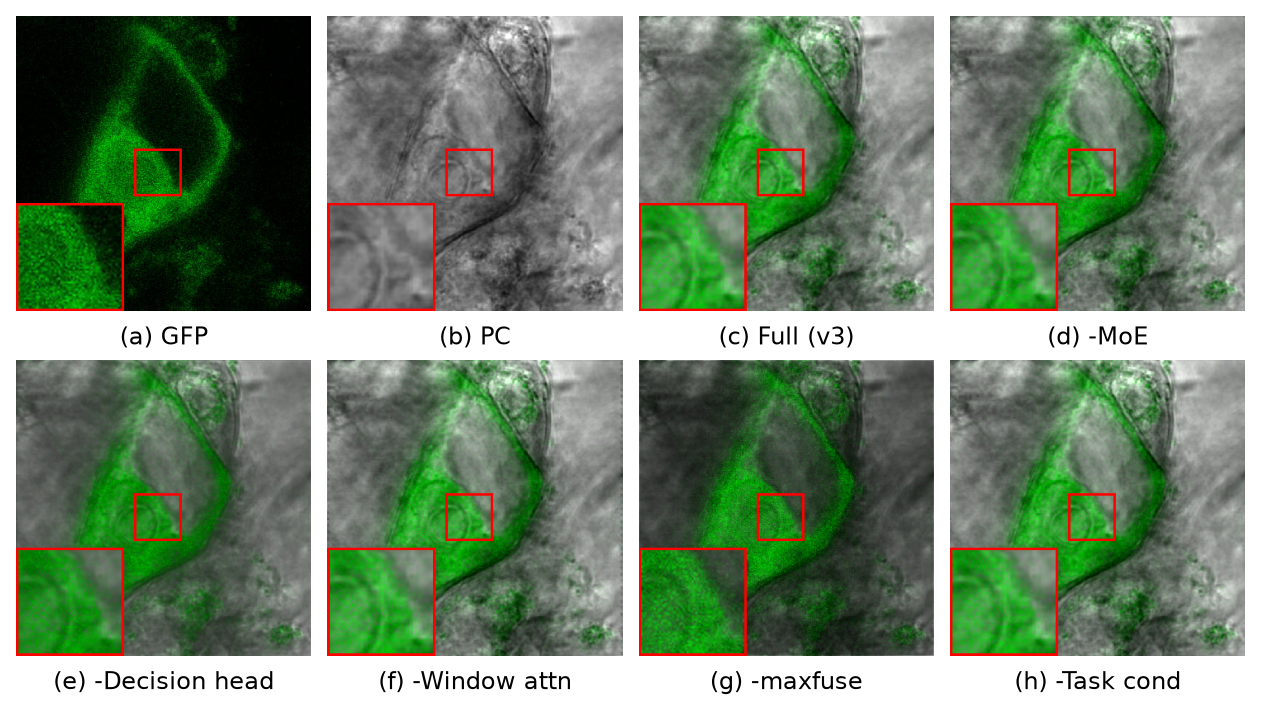
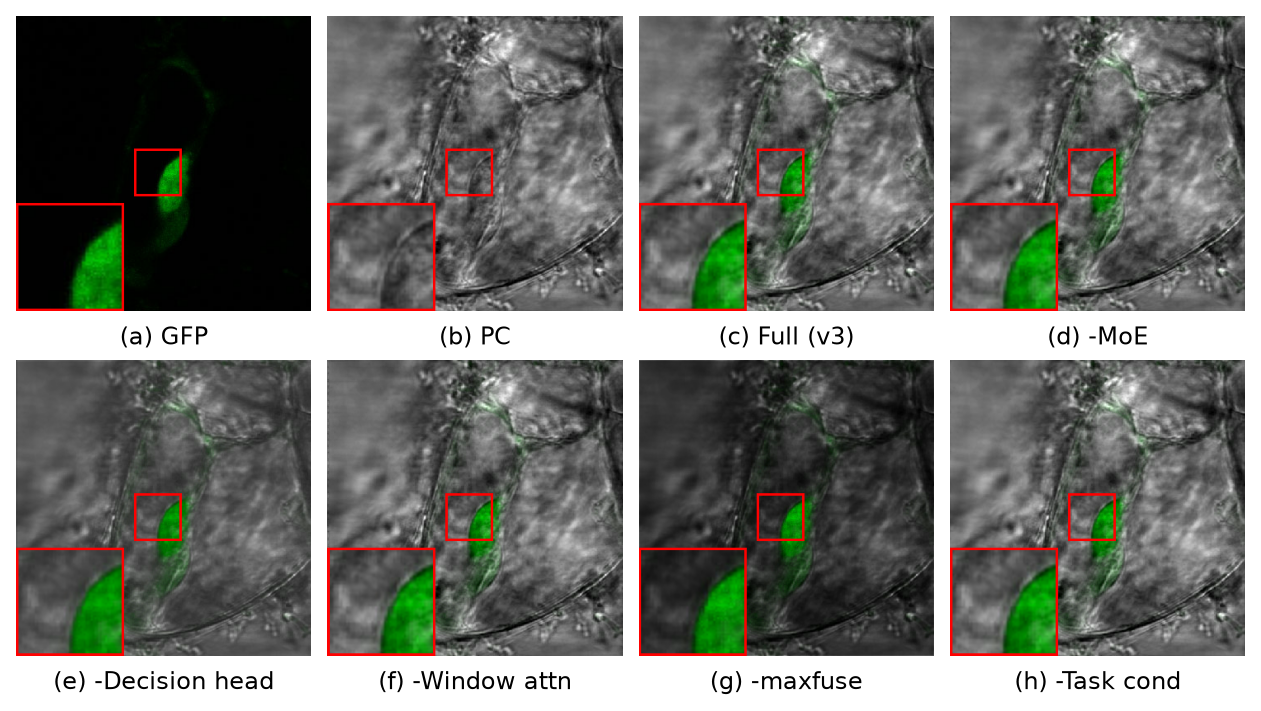
ablation: distinct qualitative samples from comparison + add PET-MRI figure (split medical pet/spect); document fused_final variant scope

diff --git a/script/make_ablation_figure.py b/script/make_ablation_figure.py
@@ -5,11 +5,15 @@ Columns: source A, source B, Full(v3), -MoE, -DecisionHead, -WindowAttn, -maxfus
 -TaskCond  (2x4 grid). Same red-box + bottom-left zoom-inset style, (a)-(h) captions.
 IR-VIS shown in color (visible-chroma recombination); medical/gfp_pc from fused_final.
 Only INNOVATION-point ablations here (NOT hyperparameter sweeps).
+Medical is split by modality via --subtag pet|spect (sets srcA label + output
+subfolder+name), matching make_qualitative_figure.py; samples are chosen DIFFERENT
+from the §4.2 comparison figures to avoid reusing the same images.
 
 Usage:
-  python make_ablation_figure.py --task irvis  --sample 00778N     --box 0.40 0.45 0.16 0.16
-  python make_ablation_figure.py --task gfp_pc --sample 05-A02     --box 0.40 0.45 0.16 0.16
-  python make_ablation_figure.py --task medical --sample spect_18017 --box 0.38 0.40 0.18 0.18
+  python make_ablation_figure.py --task irvis  --sample 01506D     --box 0.40 0.45 0.16 0.16
+  python make_ablation_figure.py --task gfp_pc --sample 05-B06     --box 0.40 0.45 0.16 0.16
+  python make_ablation_figure.py --task medical --subtag spect --sample spect_4010 --box 0.38 0.40 0.18 0.18
+  python make_ablation_figure.py --task medical --subtag pet   --sample pet_25015  --box 0.38 0.40 0.18 0.18
 """
 import os, string, argparse
 import numpy as np
@@ -72,6 +76,7 @@ def sanitize(s):
 def main():
     ap = argparse.ArgumentParser()
     ap.add_argument("--task", required=True, choices=["irvis", "medical", "gfp_pc"])
+    ap.add_argument("--subtag", default="", help="medical: pet|spect (subfolder + srcA label)")
     ap.add_argument("--sample", required=True)
     ap.add_argument("--box", nargs=4, type=float, default=[0.40, 0.45, 0.16, 0.16])
     ap.add_argument("--zoom", type=float, default=2.2)
@@ -82,13 +87,15 @@ def main():
     args = ap.parse_args()
 
     stem = args.sample[:-4] if args.sample.endswith(".png") else args.sample
-    fn = stem + ".png"; task = args.task
-    out_base = os.path.join(REPO, "Materials", "ablation", task)
+    fn = stem + ".png"; task = args.task; sub = args.subtag
+    out_base = os.path.join(REPO, "Materials", "ablation", task, sub) if sub \
+        else os.path.join(REPO, "Materials", "ablation", task)
     ind_dir = os.path.join(out_base, "individual"); os.makedirs(ind_dir, exist_ok=True)
 
     la, lb = SRC_LABELS[task]
     if task == "medical":
-        la = "SPECT" if stem.startswith("spect") else "PET"
+        la = sub.upper() if sub in ("pet", "spect") else \
+            ("SPECT" if stem.startswith("spect") else "PET")
     a_path = os.path.join(BENCH, "inputs", task, "colorA", fn)
     if not os.path.exists(a_path):
         a_path = os.path.join(BENCH, "inputs", task, "A", fn)
@@ -125,9 +132,10 @@ def main():
         ax.text(0.5, -0.05, f"({letters[i]}) {label}", transform=ax.transAxes,
                 ha="center", va="top", fontsize=11, color="black")
     fig.tight_layout(h_pad=1.6, w_pad=0.6)
-    out_png = os.path.join(out_base, f"fig_{task}_ablation.png")
+    suffix = f"_{sub}" if sub else ""
+    out_png = os.path.join(out_base, f"fig_{task}{suffix}_ablation.png")
     fig.savefig(out_png, dpi=args.dpi, bbox_inches="tight"); plt.close(fig)
-    print(f"[{task}] {n} panels {nrows}x{ncols} -> {out_png}")
+    print(f"[{task}{('/'+sub) if sub else ''}] {n} panels {nrows}x{ncols} -> {out_png}")
 
 
 if __name__ == "__main__":

diff --git a/EXP-ABLATION-03-variants-and-qualitative-audit.md b/EXP-ABLATION-03-variants-and-qualitative-audit.md
@@ -1,0 +1,74 @@
+# EXP-ABLATION-03：消融变体清点 + 定性图去重与 PET–MRI 补图（审计记录）
+
+- 日期：2026-07-07
+- 背景：`content/section-ablation.md`（§4.3 消融实验）初版定稿后，核对时发现三个问题：
+  1. `fusion_bench/fused_final/` 下的 `ab*` 变体文件夹**多于**表 4-10~4-12 里的 5 个，`abNoMoE_direct / abDirect_orig / abD3 / abDeep` 等是干嘛的、为什么不在表里；
+  2. §4.3.2 主观分析选的样本**和 §4.2 对比实验完全一样**（00778N / spect_18017 / 05-A02）；
+  3. 医学消融只画了 **SPECT–MRI**，没有 **PET–MRI**（而 §4.2 是 PET、SPECT 各一张）。
+- 本文档回答这三个问题，并记录已做的修正。
+
+---
+
+## 1. `fused_final/ab*` 变体清点（回答问题①）
+
+`ab*` 系列共 11 个文件夹，分三类；**只有第一类（5 个单消融 + Full 基线）进 §4.3 主表**，其余两类各有归属，不进主表。
+
+变体来自两个训练脚本 `run_sweep.sh` / `run_finish.sh`：每个变体都在 v3 基线（`W96L` = oc96-depth4 MoE，4.11M）之上**只改被测的那一项**，其余超参全同、同样重训 20 epoch。
+
+| 文件夹 | 训练日志 | 相对 v3 改动（train_moe.py 参数） | 类别 | 进 §4.3 表？ | 归属/记录处 |
+|---|---|---|---|---|---|
+| `W96L` | logs_W_96d4L | 无（完整 v3 基线） | 基线 | 是（完整 v3） | §4.3 表4-10~12 |
+| `abNoMoE` | logs_ab_noMoE | `--n-routed 0` | 单消融 I1（−MoE） | 是 | §4.3 |
+| `abDirect` | logs_ab_direct | `--fusion-head direct` | 单消融 I2（−决策图头） | 是 | §4.3 |
+| `abWs1` | logs_ab_ws1 | `--window-size 1` | 单消融 I3（−窗口注意力） | 是 | §4.3 |
+| `abOrig` | logs_ab_orig | `--loss-mode orig` | 单消融 I4（−maxfuse） | 是 | §4.3 |
+| `abNoTC` | logs_ab_notaskcond | `--no-task-cond` | 单消融 I5（−任务条件路由） | 是 | §4.3 |
+| `abNoMoE_direct` | logs_ab_noMoE_direct | `--n-routed 0 --fusion-head direct` | **双消融** I1+I2 | 否 | EXP-ABLATION-PARAM-v3 §2.1 |
+| `abDirect_orig` | logs_ab_direct_orig | `--fusion-head direct --loss-mode orig` | **双消融** I2+I4 | 否 | EXP-ABLATION-PARAM-v3 §2.1 |
+| `abWs1_orig` | logs_ab_ws1_orig | `--window-size 1 --loss-mode orig` | **双消融** I3+I4 | 否 | EXP-ABLATION-PARAM-v3 §2.1 |
+| `abD3` | logs_ab_d3 | `--depth 3`（3.10M） | **超参对比点** depth=3 | 否 | EXP-ABLATION-PARAM-v3 §3（骨干深度）·§4.4 |
+| `abDeep` | logs_ab_deepseek | 路由改 deepseek（无辅助损失，bias 负载均衡） | **超参对比点** routing=deepseek | 否 | EXP-ABLATION-PARAM-v3 §3（路由方式）·§4.4 |
+
+### 为什么不进 §4.3 主表
+
+- **§4.3 主表按设计只做「单创新点」消融**：每次移除一个创新点、其余全同，这样才能**干净地隔离每个创新点的独立贡献**，读者一眼看清"去掉 I2 掉多少、去掉 I4 掉多少"。这是消融实验的标准做法。
+- **双消融（3 组）属于「创新点交互/互补性」分析**：一次去掉两个，用来说明创新点之间**互补、非冗余**（去两个比去一个掉得更多，说明增益叠加、彼此不可替代）。这类结论放在内部记录 `EXP-ABLATION-PARAM-v3.md` §2.1，作为主表的补充证据；正文主表不混入，避免"移除项组合"把单因子结论搅乱。
+- **`abD3` / `abDeep` 不是"创新点消融"，而是"超参/架构取值对比"**：`abD3` 是 depth=3 这个**取值**（对照 depth=2/4/5），`abDeep` 是 routing=deepseek 这种**路由方式**（对照 softmax）。它们回答的是"参数取多少最好 / 哪种路由更好"，属于 §4.4 超参数分析，与"某个创新点有没有用"是两码事。§4.3 开头已声明"创新点消融与超参取值分析二者不混"。
+- 补充：这两个是**探索期**（7-02）先跑的，正式超参扫（`run_sweep.sh`，7-04）里 depth 只补了 hpD2/hpD5、routing 复用 abDeep，所以 depth=3 直接复用了 `abD3`——它们都已 benchmark（`reports/*/abD3__means.csv`、`abDeep__means.csv`），数据进了 §3 的深度表与路由表，不是"废弃跑"。
+
+> 一句话结论：`fused_final/ab*` 里没有多余/无用的文件夹——5 个进主表（单消融），3 个是双消融（互补性分析，内部文档），2 个是超参对比点（depth=3 / deepseek，§4.4）。
+
+（另：`fused_final/` 里还有大量**非 `ab` 前缀**的文件夹，如 `hp*` 是 §4.4 的 8 组超参扫描、`D*/W*/TG*/IR*` 等是更早期的探索批次与 9 个 SOTA 对比方法目录，均不属于 §4.3 消融。）
+
+---
+
+## 2. 定性样本去重（回答问题②）
+
+**问题**：§4.3.2 消融定性图原本用的样本与 §4.2 对比实验完全相同，读者会在两节看到同一张图。
+
+**修正**：§4.3.2 四张图**全部另选**与 §4.2 不同的样本。选样沿用 `script/select_samples.py` 的口径——挑本文 5 项指标（MI/SSIM/Qabf/VIF↑、Nabf↓）**优于全部 9 个对比方法**的代表图（保证"完整 v3"确实是强代表，这样移除创新点后的退化才看得清），取其中**排名靠前但未被 §4.2 占用**的那一张。
+
+| 图 | §4.2 对比用样本 | §4.3 消融用样本（改后） | 选取依据 |
+|---|---|---|---|
+| IR-VIS | 00778N | **01506D** | 全指标全胜候选 #1（§4.2 未用） |
+| 医学 PET–MRI | pet_25027 | **pet_25015** | PET 无 5/5 全胜图，取 4/5（仅 Nabf 略输）最优候选，§4.2 未用 |
+| 医学 SPECT–MRI | spect_18017 | **spect_4010** | 全指标全胜候选 #2（#1 为 §4.2 用的 spect_18017） |
+| 显微 GFP–PC | 05-A02 | **05-B06** | 全指标全胜候选 #2（#1 为 §4.2 用的 05-A02） |
+
+---
+
+## 3. 医学 PET–MRI 消融补图（回答问题③）
+
+**问题**：§4.2 医学分 PET–MRI、SPECT–MRI 各一张；§4.3.2 却只画了 SPECT–MRI，缺 PET–MRI。
+
+**原因**：初版 `make_ablation_figure.py` 对 medical 只生成单张 `fig_medical_ablation.png`（当时只跑了 spect_18017 一个样本），没有像对比脚本那样按模态分图；并非数据缺失——**6 个单消融变体文件夹里 PET 融合结果齐全**（`W96L/abNoMoE/abDirect/abWs1/abOrig/abNoTC` 各有 24 张 PET + 24 张 SPECT）。
+
+**修正**：给 `make_ablation_figure.py` 加了 `--subtag pet|spect`（与 `make_qualitative_figure.py` 一致）：medical 按模态分别输出到 `Materials/ablation/medical/{pet,spect}/fig_medical_{pet,spect}_ablation.png`，源 A 标签自动为 PET / SPECT。据此**补出 PET–MRI 消融图**（pet_25015），与 SPECT–MRI（spect_4010）并列，和 §4.2 的呈现方式一致。
+
+---
+
+## 4. 本次改动清单
+- `script/make_ablation_figure.py`：新增 `--subtag`，medical 按 PET/SPECT 分图。
+- `Materials/ablation/`：重生成 4 张图——`irvis/fig_irvis_ablation.png`(01506D)、`medical/pet/fig_medical_pet_ablation.png`(pet_25015，新增)、`medical/spect/fig_medical_spect_ablation.png`(spect_4010)、`gfp_pc/fig_gfp_pc_ablation.png`(05-B06)；删除旧的 `medical/fig_medical_ablation.png` 及被替换样本的 individual 面板。
+- `content/section-ablation.md`：§4.3.2 改为 4 图（新增 PET–MRI）、样本改为去重后的新样本、图号 4-5~4-8；表 4-9 下新增「消融范围说明」直接解释 fused_final 里多出来的变体各是什么、为什么不进主表。
+- `Materials/README.md`：ablation 目录树补 pet/spect 子目录，重生成命令改为新样本 + `--subtag`，并注明样本与 §4.2 去重、双消融/超参见 EXP-ABLATION-PARAM-v3。

diff --git a/content/section-ablation.md b/content/section-ablation.md
@@ -14,6 +14,8 @@
 | I4 | **maxfuse 任务自适应损失** | 朝逐像素 max 对齐，保强结构/对比 | 改回 GFP 标定的对称损失（−maxfuse） |
 | I5 | **任务条件路由** | 路由注入任务嵌入，按任务特化专家 | 路由不注入任务嵌入（−Task cond） |
 
+> **消融范围说明。** 本节主表只做**单创新点**消融（每次移除一个），以清晰隔离各创新点的独立贡献。此外还补做了 3 组**双创新点联合消融**（−MoE−决策图头、−决策图头−maxfuse、−窗口−maxfuse），用于验证创新点之间互补、非冗余（去掉两个比去掉一个掉得更多）；这部分与「路由方式 softmax/deepseek、骨干深度」等**架构/超参取值对比**同属交互与超参分析，收录于内部记录 `EXP-ABLATION-PARAM-v3.md` 及 §4.4，不并入本节主表。因此 `fusion_bench/fused_final/` 下除本表 5 个变体（`abNoMoE / abDirect / abWs1 / abOrig / abNoTC`）外，还会看到 `abNoMoE_direct / abDirect_orig / abWs1_orig`（双消融）以及 `abD3 / abDeep`（depth=3、deepseek 路由的超参对比点）等文件夹，均非本节主表内容。
+
 ## 4.3.1　客观分析
 
 三个模态上完整模型与各消融变体的 5 项指标结果如表 4-10 至表 4-12 所示（↑ 越大越好，Nabf ↓ 越小越好）。
@@ -67,23 +69,27 @@
 
 ## 4.3.2　主观分析
 
-三个模态上完整模型与各消融变体的定性对比如图 4-5 至图 4-7 所示（2×4 排布，每个面板红框 + 左下角局部放大；彩色显示同 §4.2）。
+四个模态/子模态（医学按 PET–MRI 与 SPECT–MRI 分开，与 §4.2 保持一致）上完整模型与各消融变体的定性对比如图 4-5 至图 4-8 所示（2×4 排布，每个面板红框 + 左下角局部放大；彩色显示同 §4.2）。为避免与 §4.2 对比实验重复，本节各图**另选与 §4.2 不同的样本**（均取本文全指标最优/近最优的代表图）。
 
-**图 4-5　IR-VIS 创新点消融定性对比（样本 00778N）**
+**图 4-5　IR-VIS 创新点消融定性对比（样本 01506D）**
 
 ![IR-VIS 消融定性对比](../Materials/ablation/irvis/fig_irvis_ablation.png)
 
-**图 4-6　医学 SPECT–MRI 创新点消融定性对比（样本 spect_18017）**
+**图 4-6　医学 PET–MRI 创新点消融定性对比（样本 pet_25015）**
 
-![医学消融定性对比](../Materials/ablation/medical/fig_medical_ablation.png)
+![医学 PET–MRI 消融定性对比](../Materials/ablation/medical/pet/fig_medical_pet_ablation.png)
 
-**图 4-7　显微 GFP–PC 创新点消融定性对比（样本 05-A02）**
+**图 4-7　医学 SPECT–MRI 创新点消融定性对比（样本 spect_4010）**
+
+![医学 SPECT–MRI 消融定性对比](../Materials/ablation/medical/spect/fig_medical_spect_ablation.png)
+
+**图 4-8　显微 GFP–PC 创新点消融定性对比（样本 05-B06）**
 
 ![GFP–PC 消融定性对比](../Materials/ablation/gfp_pc/fig_gfp_pc_ablation.png)
 
 **主观分析（与客观结果一致）。**
 
-- **完整 v3（c）**：功能信息（红外热目标 / SPECT 代谢色 / GFP 荧光）与结构细节保留均衡、对比度适中、边缘干净。
+- **完整 v3（c）**：功能信息（红外热目标 / PET·SPECT 代谢色 / GFP 荧光）与结构细节保留均衡、对比度适中、边缘干净。
 - **−Decision head（e）**：整体对比度下降、发暗，功能信息被弱化（荧光/伪彩变淡），结构源过度主导，与 MI/SSIM 的塌陷一致。
 - **−maxfuse（g）**：最明显的退化——呈颗粒噪声与过饱和的弥散色块，医学图中 MRI 结构细节被色块淹没、GFP 图荧光变噪，与其 MI/Qabf 的大幅下降对应。
 - **−Window attn（f）**：IR-VIS 场景出现斑块与伪影（Nabf 升高），细节不如完整模型干净。

diff --git a/Materials/README.md b/Materials/README.md
@@ -17,7 +17,9 @@ Materials/
 │   └── gfp_pc/  (individual/ + fig_gfp_pc_qualitative.png)
 ├── ablation/            §4.3 创新点消融定性图（本批已产出）
 │   ├── irvis/   (individual/ + fig_irvis_ablation.png)
-│   ├── medical/ (individual/ + fig_medical_ablation.png)   # SPECT–MRI 样本
+│   ├── medical/                # 按模态分开（与 §4.2 一致）
+│   │   ├── pet/   (individual/ + fig_medical_pet_ablation.png)   # PET–MRI 样本
+│   │   └── spect/ (individual/ + fig_medical_spect_ablation.png) # SPECT–MRI 样本
 │   └── gfp_pc/  (individual/ + fig_gfp_pc_ablation.png)
 └── hyperparam/          预留：超参实验图（待产出）
 ```
@@ -58,7 +60,10 @@ $PY make_qualitative_figure.py --task gfp_pc  --sample 05-A02      --box 0.40 0.
 ```bash
 PY=/ytech_m2v4_hdd/lizhongyin/venv/gifnet/bin/python
 cd script
-$PY make_ablation_figure.py --task irvis   --sample 00778N      --box 0.40 0.45 0.16 0.16
-$PY make_ablation_figure.py --task gfp_pc  --sample 05-A02      --box 0.40 0.45 0.16 0.16
-$PY make_ablation_figure.py --task medical --sample spect_18017 --box 0.38 0.40 0.18 0.18
+# 样本与 §4.2 对比实验刻意不同（去重）；医学分 PET/SPECT 两图，与 §4.2 一致。
+# 只做单创新点消融；双消融(abNoMoE_direct/abDirect_orig/abWs1_orig)与超参(abD3/abDeep 等)见 EXP-ABLATION-PARAM-v3.md。
+$PY make_ablation_figure.py --task irvis   --sample 01506D     --box 0.40 0.45 0.16 0.16
+$PY make_ablation_figure.py --task gfp_pc  --sample 05-B06     --box 0.40 0.45 0.16 0.16
+$PY make_ablation_figure.py --task medical --subtag pet   --sample pet_25015  --box 0.38 0.40 0.18 0.18
+$PY make_ablation_figure.py --task medical --subtag spect --sample spect_4010 --box 0.38 0.40 0.18 0.18
 ```